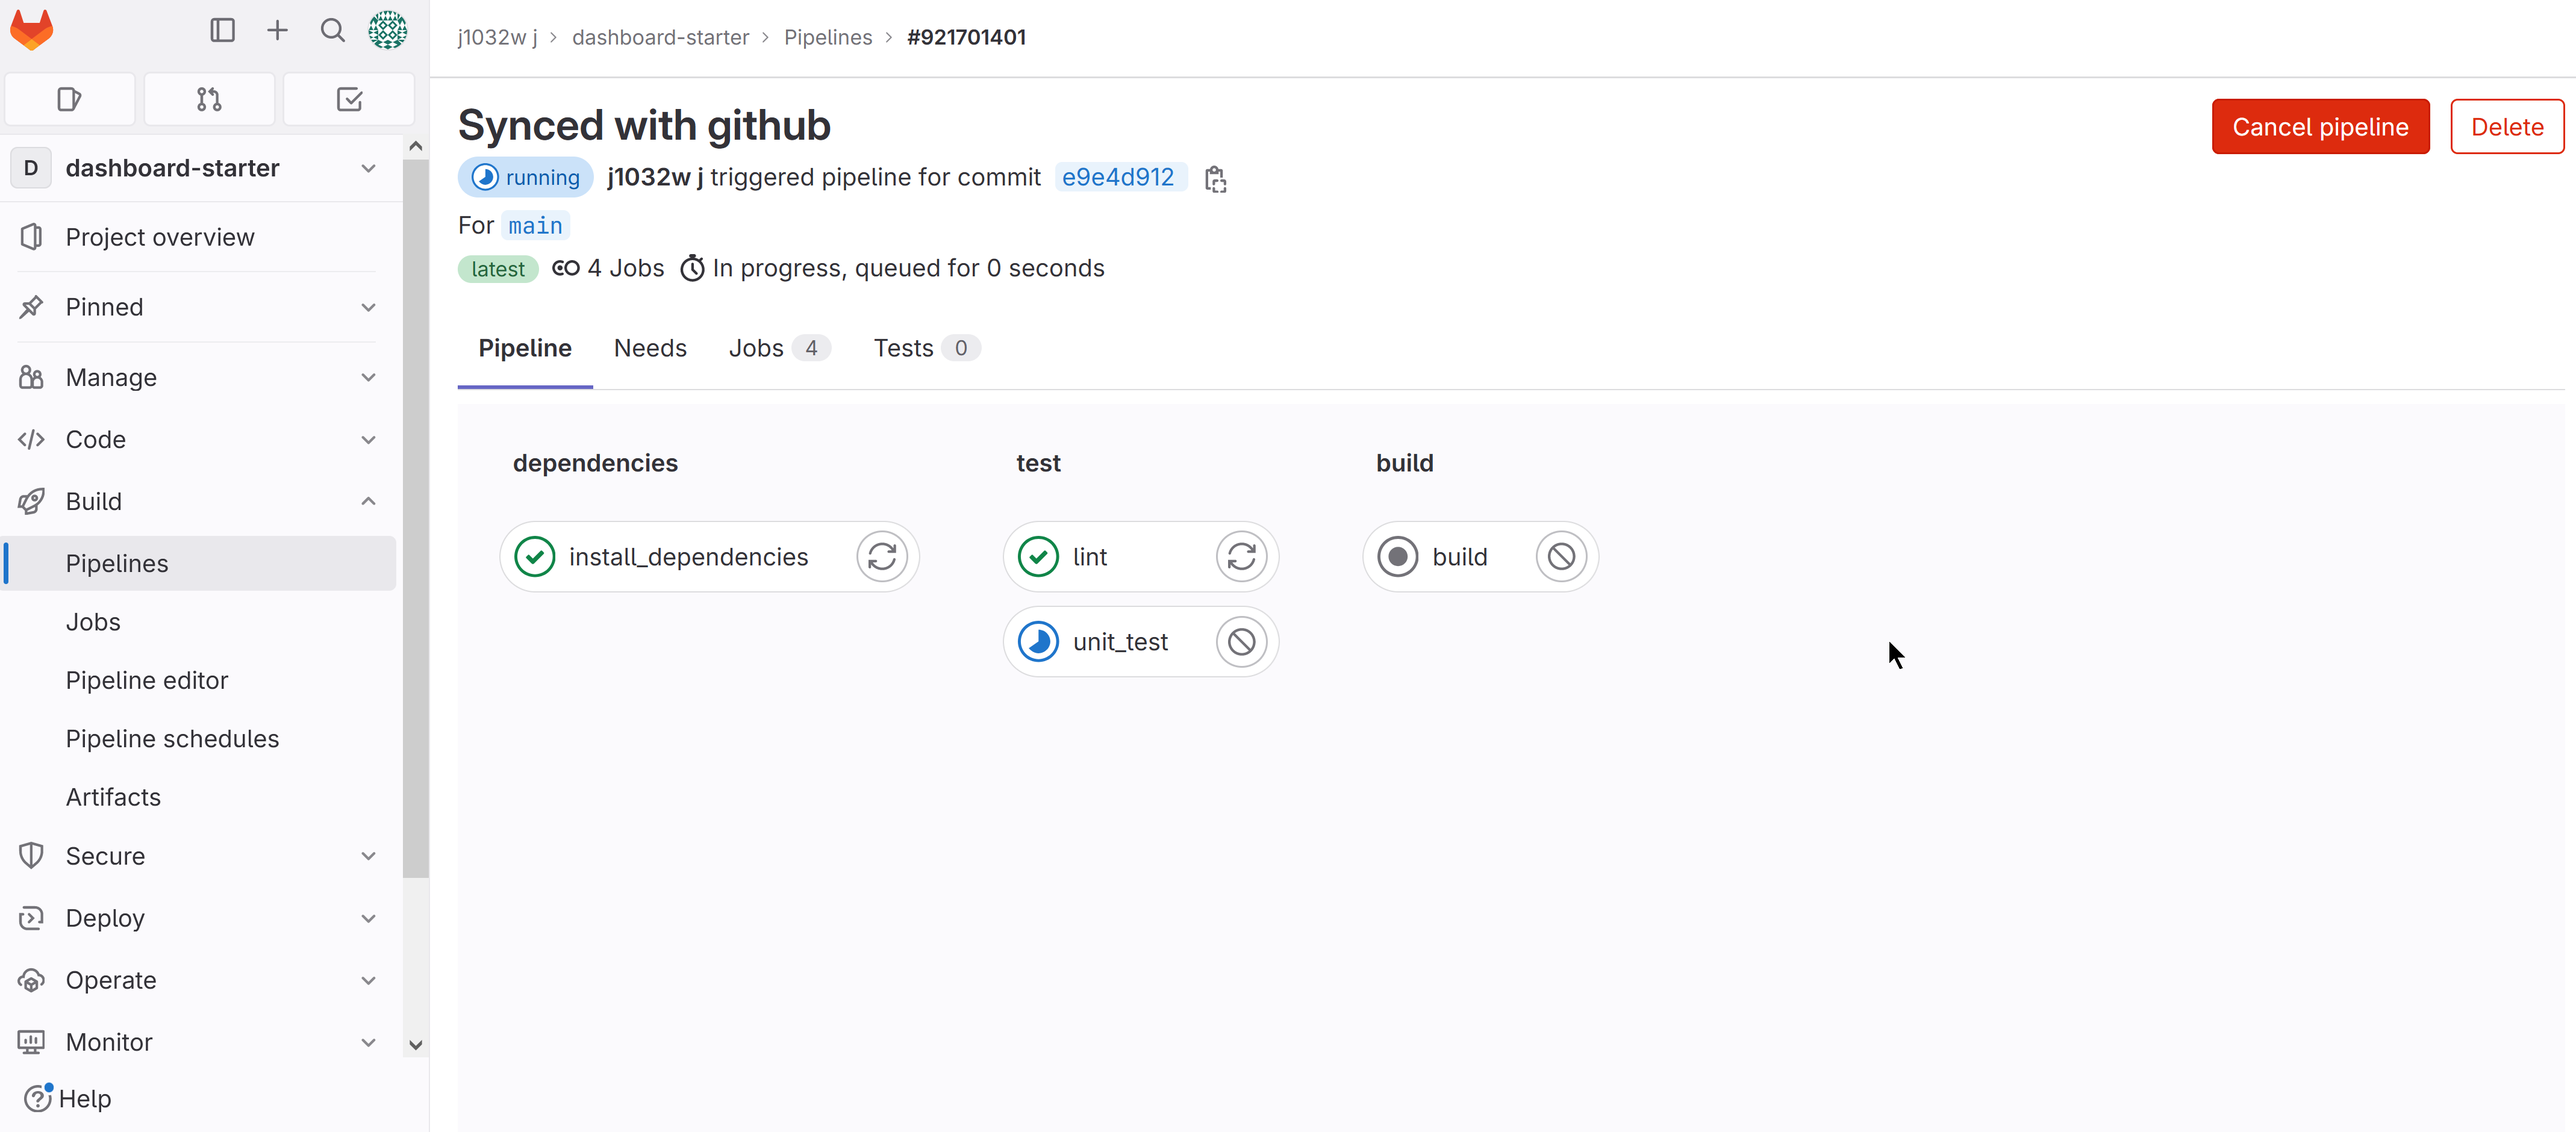
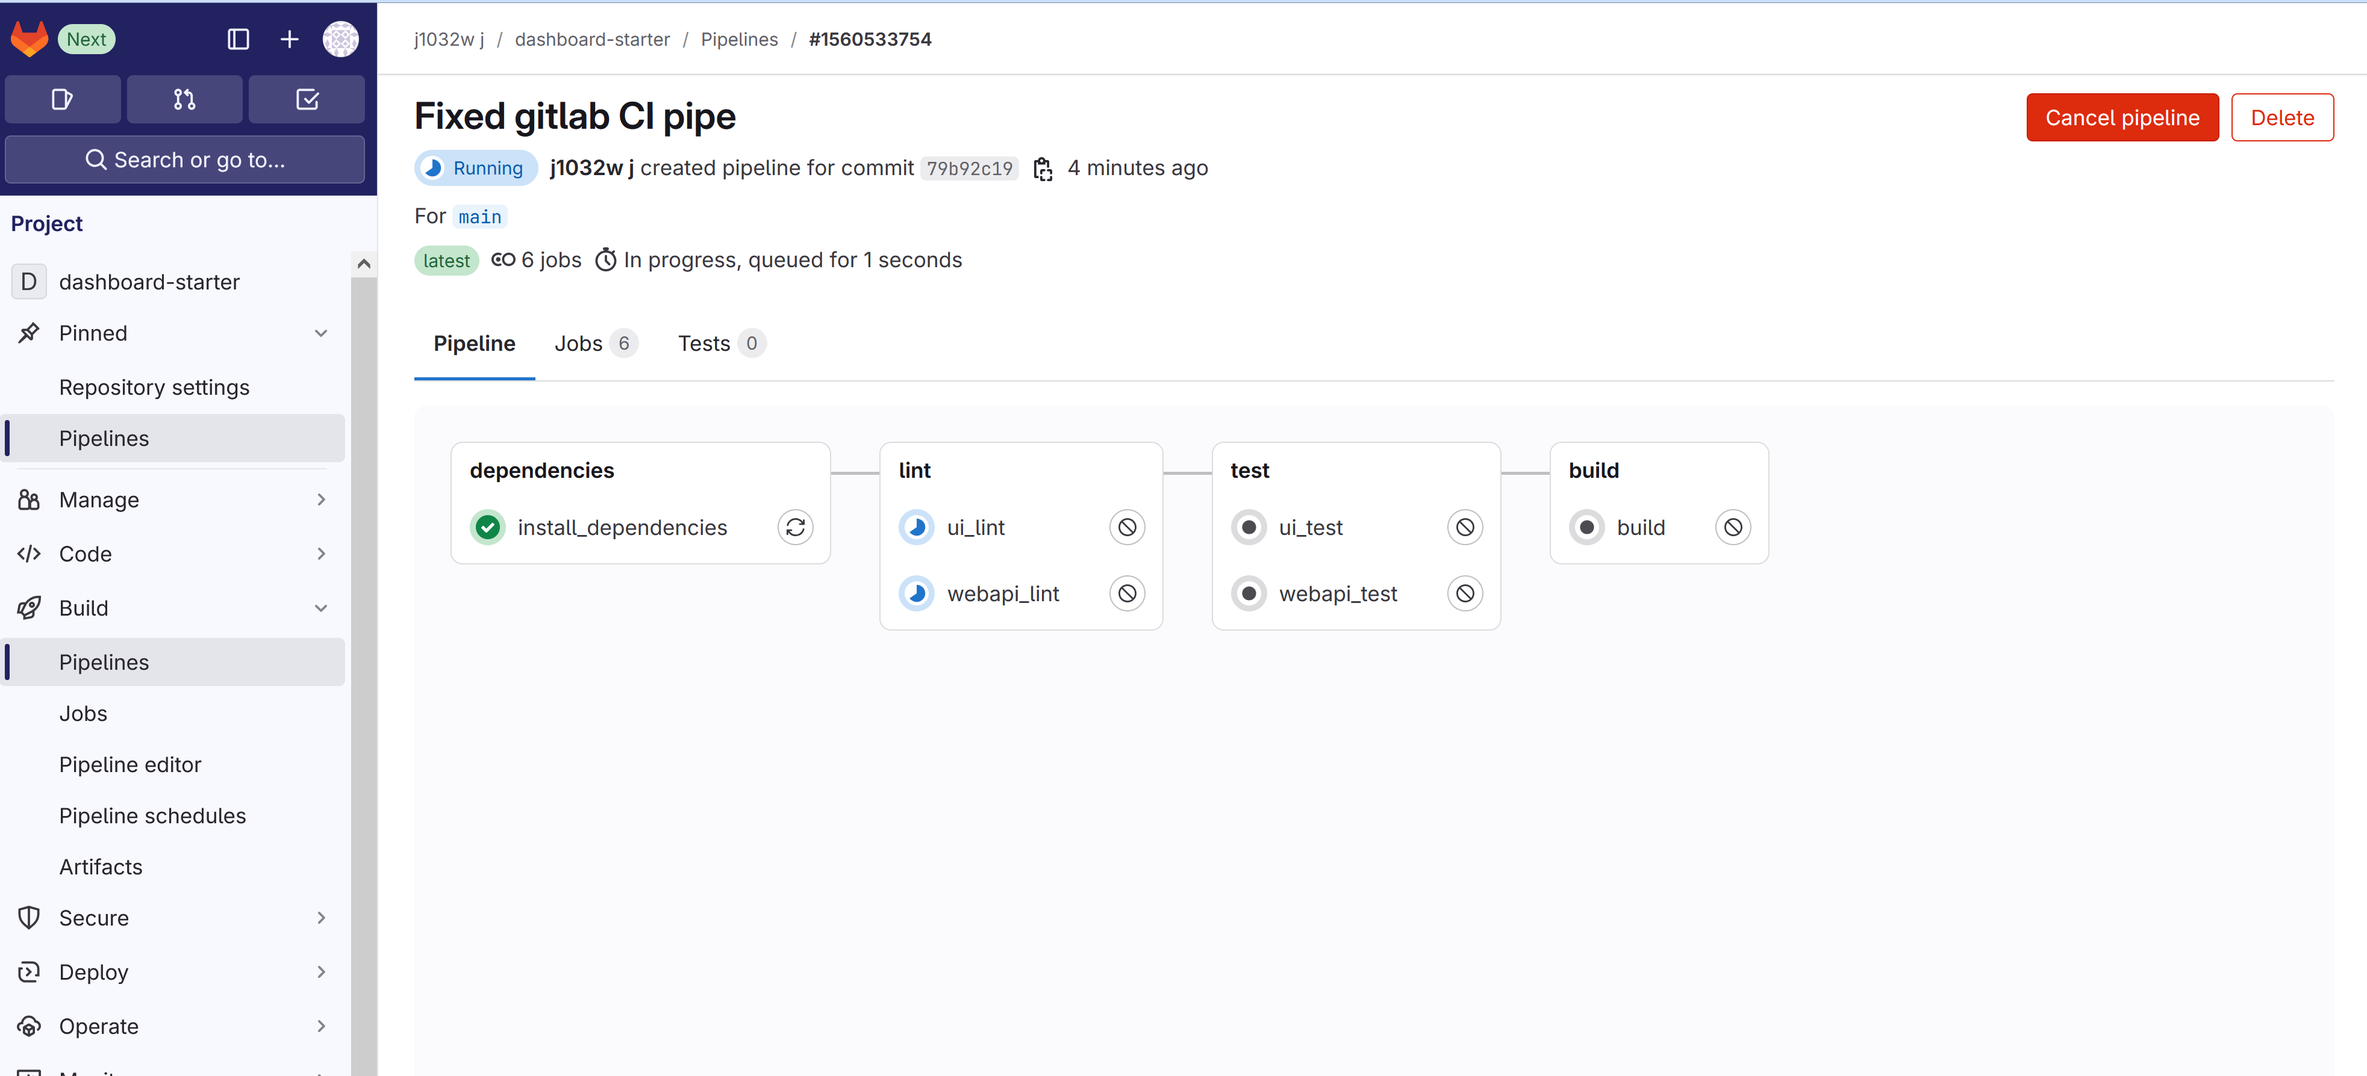
Updated docker-compose.prod.yml

diff --git a/README.md b/README.md
@@ -14,6 +14,7 @@
 
 
 [![Demo](documentation/dashboard-cypress.gif)](https://www.j1032.com/dashboard)
+
 [![](https://j1032.com/assets/images/demo.gif)](https://www.j1032.com/dashboard)
 
 [![swagger](documentation/swagger-screenshot.jpg)]()
@@ -29,9 +30,9 @@
 
 - **Modern Development Practices**:\
   Mono-repo structure with [Nx](https://nx.dev/)\
-  Containerized application hosted on [Google GCP](https://cloud.google.com/)\
+  Containerized application stored on [Amazon ECR](https://gallery.ecr.aws/x0r2c3f9/das)\
   Angular standalone components and lazy loading\
-  HTTP request throttling and caching\  
+  HTTP request throttling and caching\
   Liquid layout and SVG icons.
 - **Testing**:\
   Unit testing with [Jest](https://jestjs.io/)\
@@ -52,33 +53,38 @@
 
 
 # Getting Started
-### Clone repository
+### Start with Pre-build Docker Image
+The pre-build image may not include the latest changes.
+
+1. Pull and run the production images from [Amazon ECR (https://gallery.ecr.aws/x0r2c3f9/das)](https://gallery.ecr.aws/x0r2c3f9/das)
+```
+docker compose -f docker-compose.prod.yml pull
+docker compose -f docker-compose.prod.yml up
+```
+2. Navigate to the following URLs: http://localhost:80
+
+
+
+### Start with Docker compose
+1. Clone repository and Install dependencies
 ```
 git clone https://github.com/j1032w/dashboard-starter.git
-```
-
-### Install dependencies
-```
 yarn install
 ```
 
 
-### Start with Docker compose
-
-1. Build and run the development server:
+2. Build and run the development server:
 ```
 docker compose -f docker-compose.dev.yml build
 docker compose -f docker-compose.dev.yml up
 ```
 
-2. Restore MongoDB database:
-```
-mongorestore --uri="mongodb://localhost:27017" --gzip --drop --db das_data database-dump/das_data
-```
 3. Navigate to the following URLs:
-  - **UI**: http://localhost:4200 
-  - **API (Swagger)**: http://localhost:3000/api-docs
-  - Debug port: 9229
+- UI: http://localhost:4200
+- API (Swagger): http://localhost:3000/api-docs
+- API (GraphQL Playground): http://localhost:3000/graphql
+- Web API Inspect Port: 9229
+
 
 
 
